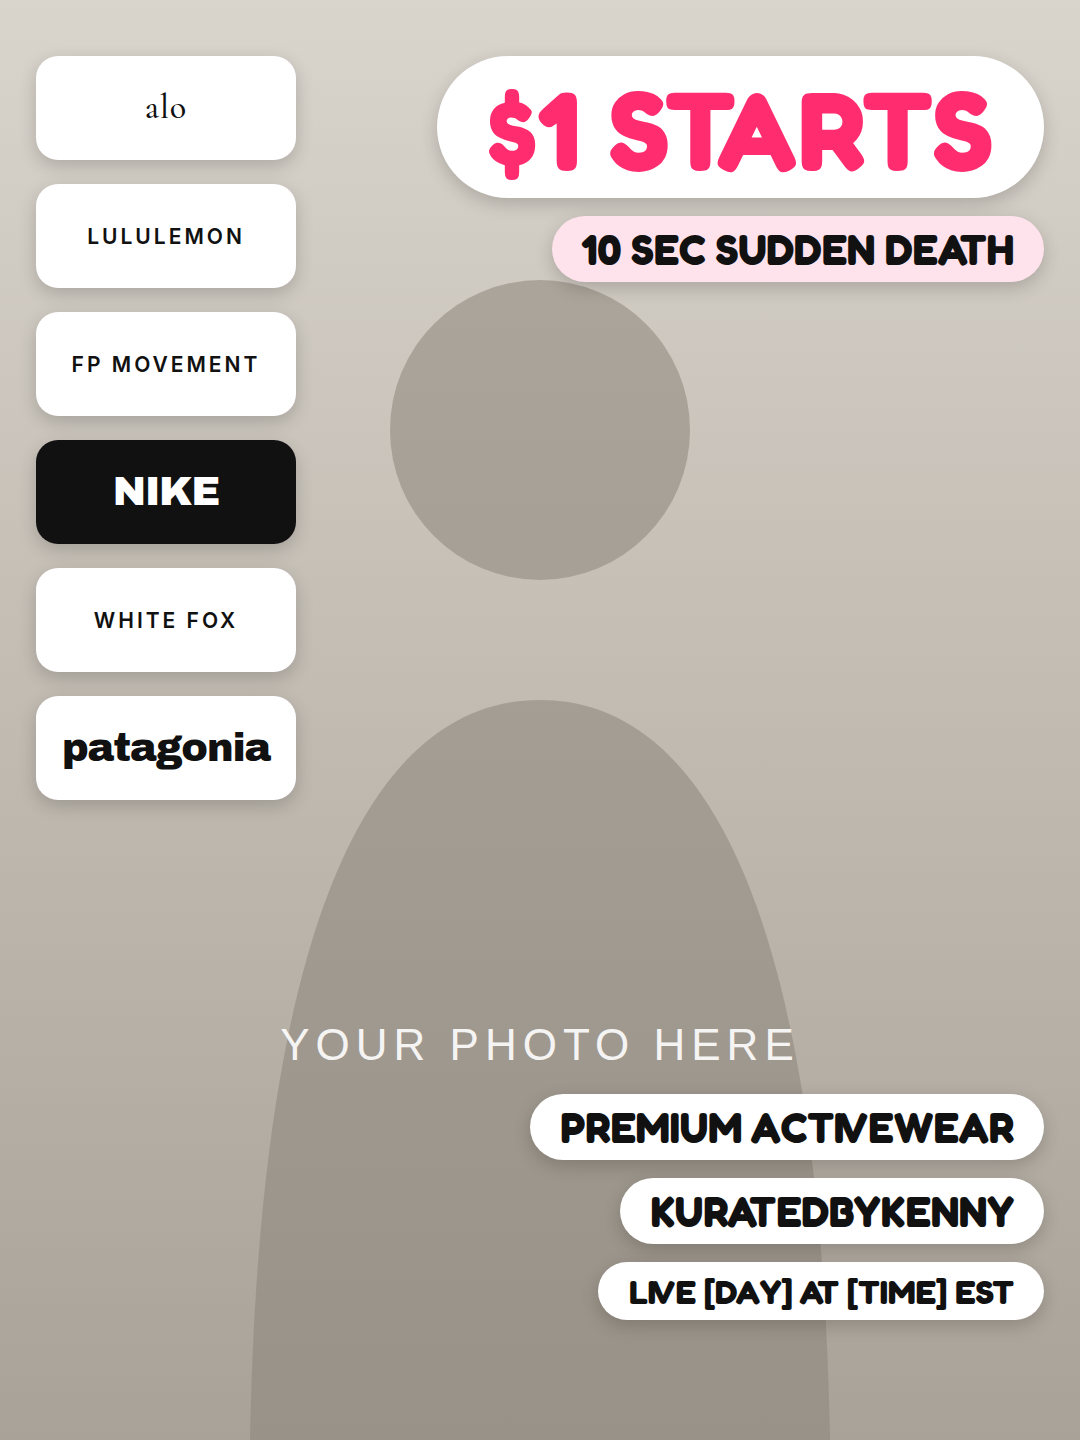
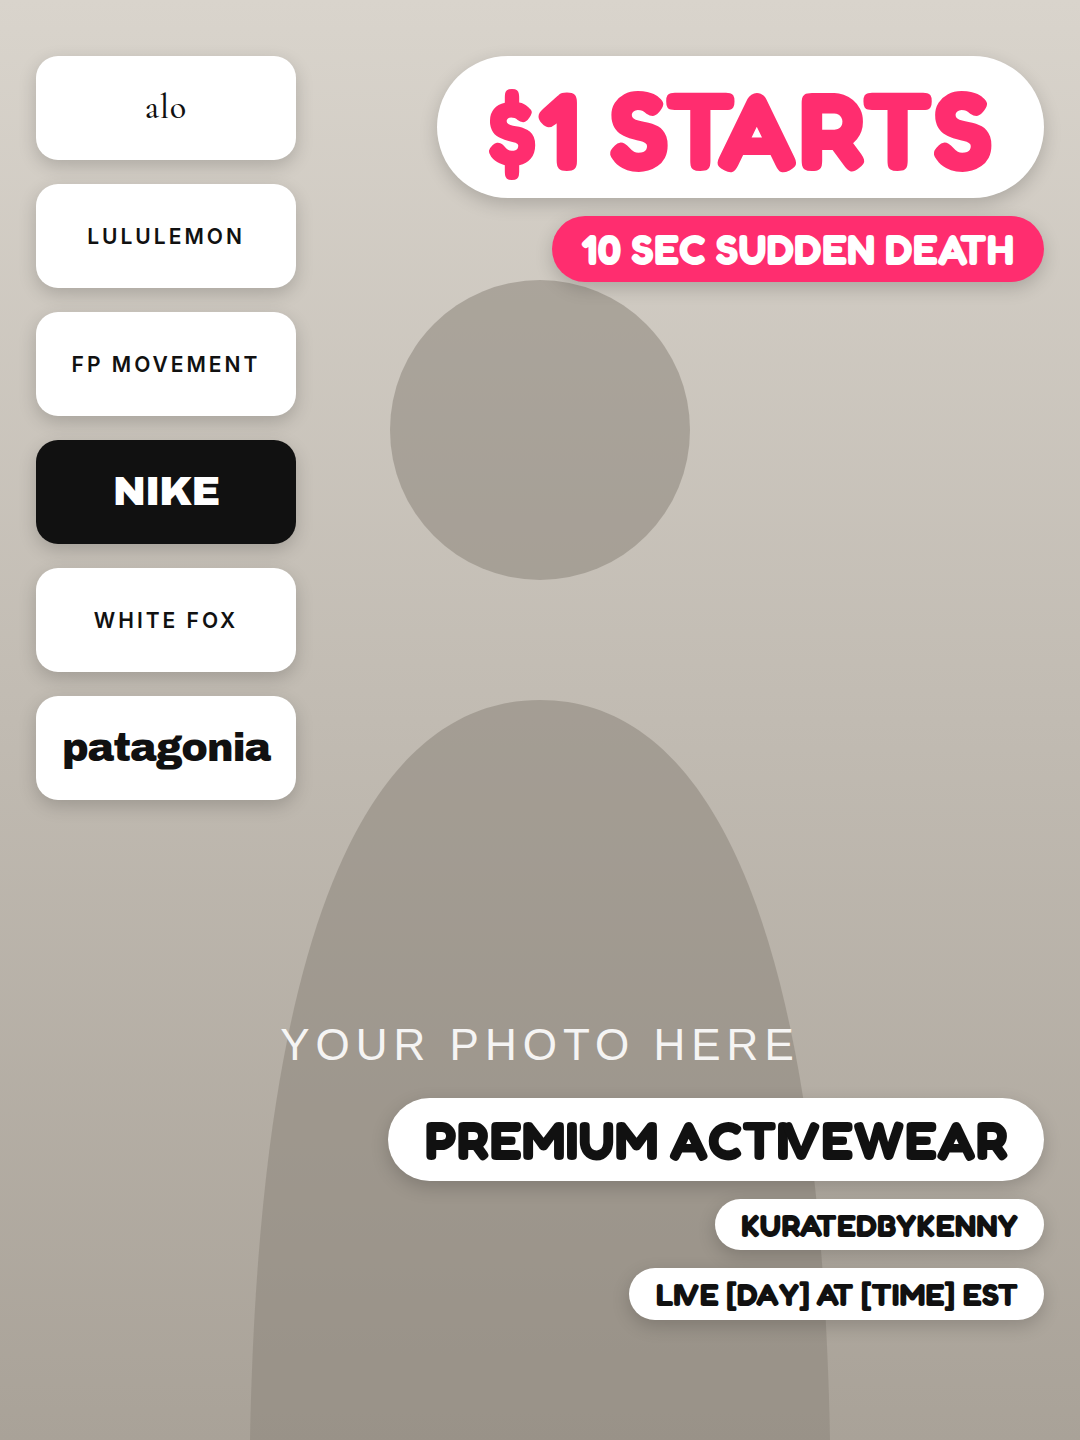
Add live-show branding research and apply it to covers
Solid hot-pink sudden-death pill, bigger category pill, smaller
shop/live pills. Adds RESEARCH.md with sources, a brand kit in
thumbnail-maker.md, and a Whatnot show-title formula in titles.md.

Claude-Session: https://claude.ai/code/session_012HoyxeQmJhgaaRPuMmH78k

Changed region(s): [[0.3361, 0.75, 0.9778, 0.9375], [0.4889, 0.125, 0.9778, 0.2188]]

diff --git a/02-branding/whatnot-covers/covers.html b/02-branding/whatnot-covers/covers.html
@@ -26,8 +26,9 @@ body{background:#222}
 .pills{position:absolute;right:36px;bottom:120px;display:flex;flex-direction:column;align-items:flex-end;gap:18px}
 .pill{background:#fff;color:#111;border-radius:999px;padding:12px 30px 10px;font-weight:700;font-size:42px;line-height:1.05;box-shadow:0 6px 18px rgba(0,0,0,.18);white-space:nowrap}
 .pill.price{font-size:112px;padding:14px 50px 10px;color:#ff2d6f;letter-spacing:1px}
-.pill.pink{background:#ffe3ec}
-.pill.small{font-size:34px}
+.pill.pink{background:#ff2d6f;color:#fff}
+.pill.cat{font-size:54px;padding:14px 36px 12px}
+.pill.small{font-size:32px;padding:10px 26px 8px}
 </style></head>
 <body>
 
@@ -47,8 +48,8 @@ body{background:#222}
     <div class="pill pink">10 SEC SUDDEN DEATH</div>
   </div>
   <div class="pills">
-    <div class="pill">MODERN CONTEMPORARY</div>
-    <div class="pill">KURATEDBYKENNY</div>
+    <div class="pill cat">MODERN CONTEMPORARY</div>
+    <div class="pill small">KURATEDBYKENNY</div>
     <div class="pill small">LIVE [DAY] AT [TIME] EST</div>
   </div>
 </div>
@@ -69,8 +70,8 @@ body{background:#222}
     <div class="pill pink">10 SEC SUDDEN DEATH</div>
   </div>
   <div class="pills">
-    <div class="pill">PREMIUM ACTIVEWEAR</div>
-    <div class="pill">KURATEDBYKENNY</div>
+    <div class="pill cat">PREMIUM ACTIVEWEAR</div>
+    <div class="pill small">KURATEDBYKENNY</div>
     <div class="pill small">LIVE [DAY] AT [TIME] EST</div>
   </div>
 </div>

diff --git a/02-branding/whatnot-covers/RESEARCH.md b/02-branding/whatnot-covers/RESEARCH.md
@@ -1,0 +1,37 @@
+# Live-Show Branding Research (Whatnot, women's resale)
+
+Covers: Premium Activewear and Modern Contemporary. Researched Sept 2026.
+
+## How covers get seen
+- **Phone size is small.** In the feed a cover shows about 150–200px wide, so anything you can't read at that size is just decoration. Only 3 things need to read small: **$1 STARTS**, the **category**, and **your face**.
+- **Say the category.** People should know what they're clicking into. Brand logos do this fastest for resale fashion, since shoppers search and follow brands (Whatnot has brand pages like "lululemon").
+- **Bold beats pastel.** Saturated colors stop the scroll, and pastels blend in. Dark on light (or light on dark) reads best small.
+
+## Branding for clothing shows
+- **Show your face.** Clothing buyers want to connect with the person styling, and "faceless" clothing shows do worse. A real, natural photo beats a staged or AI-looking one.
+- **Be the same every time.** Use the same template, the same 2–3 colors, and your logo/shop name in the same spot every show, so regulars spot you without reading.
+- **Cover and title should match.** Top activewear shows are titled like "$1 Starts, Activewear, Lululemon": price, then category, then top brands.
+- **Don't oversell.** If the cover shows brands that aren't in the show, people click and leave fast, and that hurts your ranking.
+
+## Show format & growth
+- **$1 starts + sudden death** creates FOMO and fast bidding, and it's a popular format for clothing. Watch your margins on heavy or low-value pieces, because fees eat $1 sales.
+- **Pick one weekly time slot and stick with it.** Showing up consistently matters more than the exact time.
+- **Promote the day before** on IG/TikTok, using the cover plus 2–3 preview pieces.
+- **The first minutes matter.** Whatnot pushes shows that pass viewer milestones (10/25/50/100).
+
+## How the Kurated by Kenny covers apply this
+- A real photo of you fills the cover, with 6 brand logos on the left (no more).
+- **$1 STARTS** is the biggest thing, top-right, in hot pink. **10 SEC SUDDEN DEATH** is solid hot pink under it.
+- The **category** is the second-biggest text. The shop name and live time are small.
+- Brand kit: hot pink `#ff2d6f`, white, black, Fredoka font.
+
+## Sources
+- [Atlas: Whatnot thumbnail design guide](https://www.atlasmktg.us/blog/whatnot-thumbnail-design-guide)
+- [Atlas: How to get more views on Whatnot](https://www.atlasmktg.us/blog/how-to-get-more-views-on-whatnot)
+- [Whatnot blog: Marketing on and off Whatnot](https://blog.teamwhatnot.com/united-kingdom-blog/marketing-your-business-on-and-off-whatnot)
+- [Top Down Trading: Tips for fashion sellers going live in 2026](https://www.topdowntrading.co.uk/blog/how-to-succeed-on-whatnot-top-tips-for-fashion-sellers-going-live-in-2026.html)
+- [Wholesale Fashion Trends: Selling women's clothing on Whatnot](https://www.wholesalefashiontrends.com/blogs/news/how-to-start-selling-womens-clothing-on-whatnot-a-beginners-guide)
+- [CLOSO: Whatnot seller hub survival guide 2026](https://closo.co/blogs/platform-specific-guides/inside-the-whatnot-seller-hub-a-survival-guide-for-live-auctions-in-2026)
+- [Example activewear show title on Whatnot](https://www.whatnot.com/live/7e90bd0c-6b7d-4d8a-957f-686de490e3ee)
+- [ImageSizeKit: Whatnot image sizes](https://imagesizekit.com/whatnot-image-size/)
+- [Whatnot Seller Academy resources](https://selleracademy.whatnot.com/resources)

diff --git a/02-branding/thumbnail-maker.md b/02-branding/thumbnail-maker.md
@@ -1,15 +1,17 @@
 # Thumbnail Maker
 
+Whatnot covers live in `whatnot-covers/`. The research behind them is in `whatnot-covers/RESEARCH.md`.
+
 ## Style
-- Background:
-- Lighting:
-- Fonts / colors:
-- Logo placement:
+- Background: a real, natural photo of me filling the whole cover (daylight, clean background, face clear)
+- Lighting: daylight or golden hour, no filters or beauty mode
+- Fonts / colors: Fredoka (rounded bold); hot pink `#ff2d6f`, white, black
+- Logo placement: brand logos as white sticker tiles down the left (6 max). $1 STARTS top-right. Category, KURATEDBYKENNY and live time bottom-right.
 
 ## Templates
-- Main cover photo:
+- Main cover photo: `whatnot-covers/covers.html` (Modern Contemporary, Premium Activewear), 1080 × 1440
 - Bundle / lot photo:
 - Sale / promo photo:
 
 ## Tools used
--
+- `whatnot-covers/render.mjs` turns the template + photo into a PNG

diff --git a/02-branding/titles.md b/02-branding/titles.md
@@ -8,5 +8,12 @@
 - **eBay** (80 characters max):
 - **Poshmark:**
 
+## Whatnot show titles
+Match the cover: price, then format, then category, then top brands.
+- `$1 STARTS · 10 SEC SUDDEN DEATH · Premium Activewear: Lululemon, Alo, Nike, FP Movement`
+- `$1 STARTS · 10 SEC SUDDEN DEATH · Modern Contemporary: Aritzia, Free People, Skims, Anthropologie`
+
+Only name brands that are really in the show.
+
 ## Keywords that work
 -
